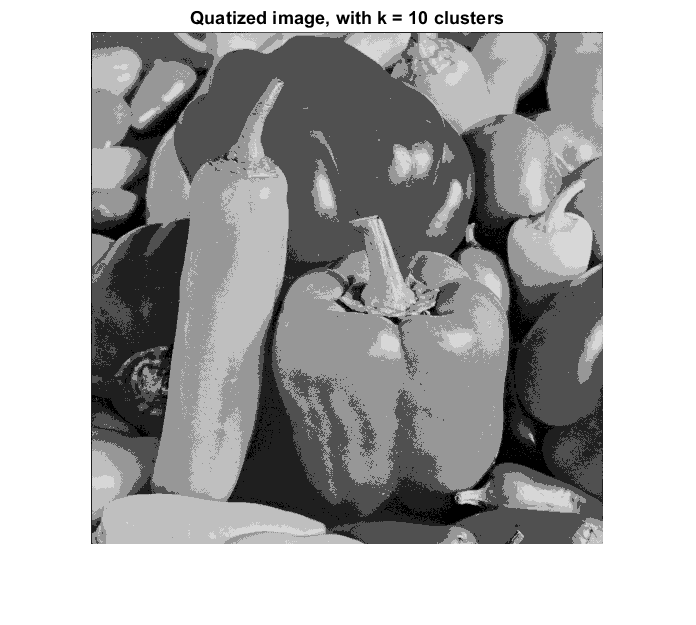
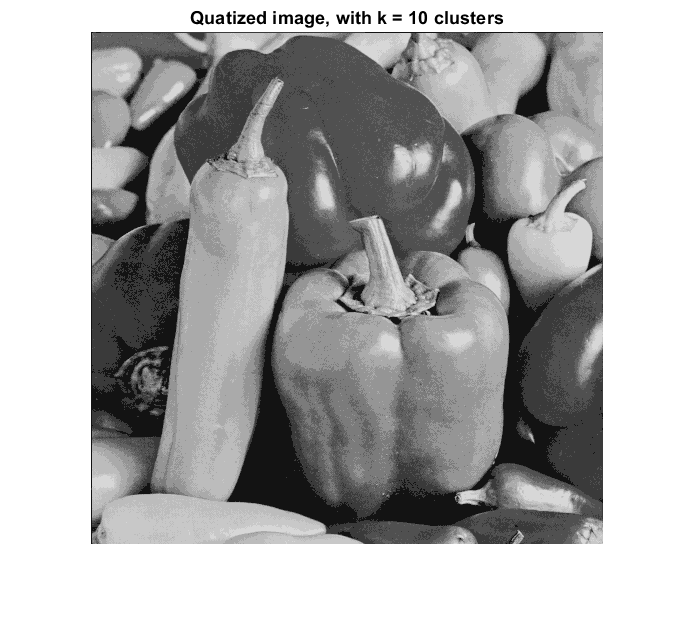
fixed bug in ex 3

diff --git a/lab1/ex3/quantization.m b/lab1/ex3/quantization.m
@@ -62,7 +62,7 @@ function [quantizedImage, means, clusters, current_positions, label_matrix] = qu
                 for column = 1:W
                     fprintf("Iteration %d,  pixel (%d, %d)\n", iteration, row, column);
 
-                    [~, min_index] = min(abs(means - imageIn(row, column)));
+                    [~, min_index] = min(abs(double(means) - double(imageIn(row, column))));
                     for cluster = 1:k
                         if min_index == cluster
                             clusters(min_index, current_positions(min_index)) = imageIn(row, column);
